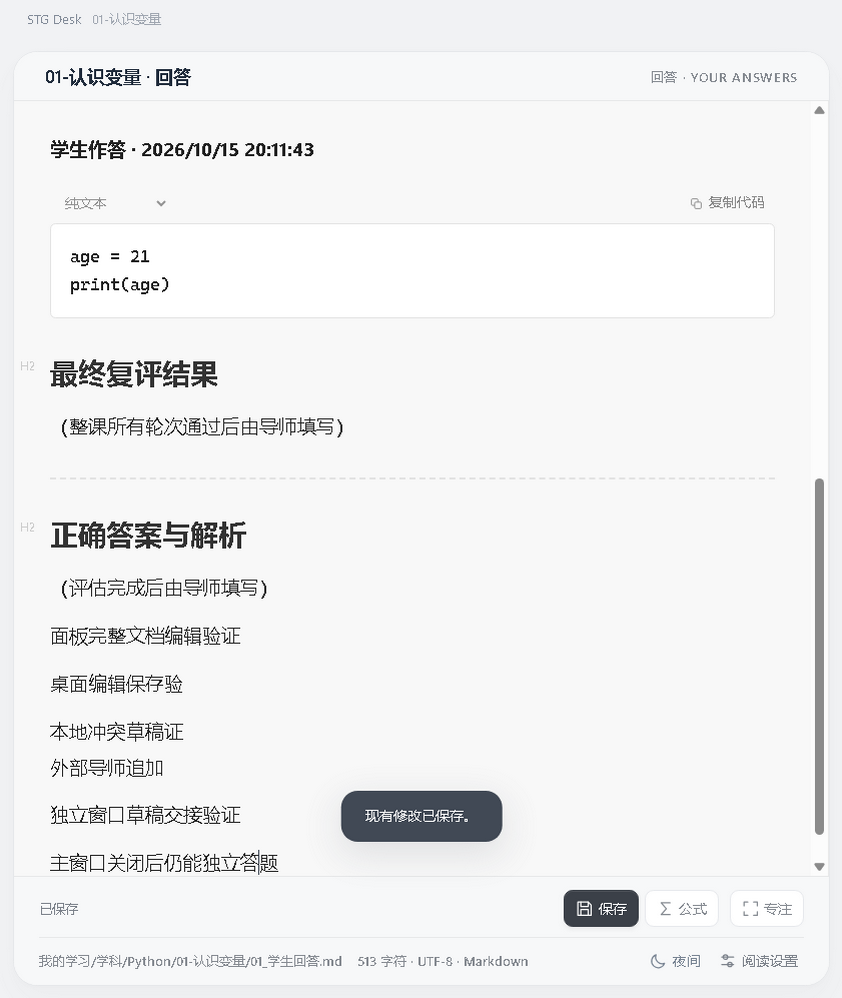
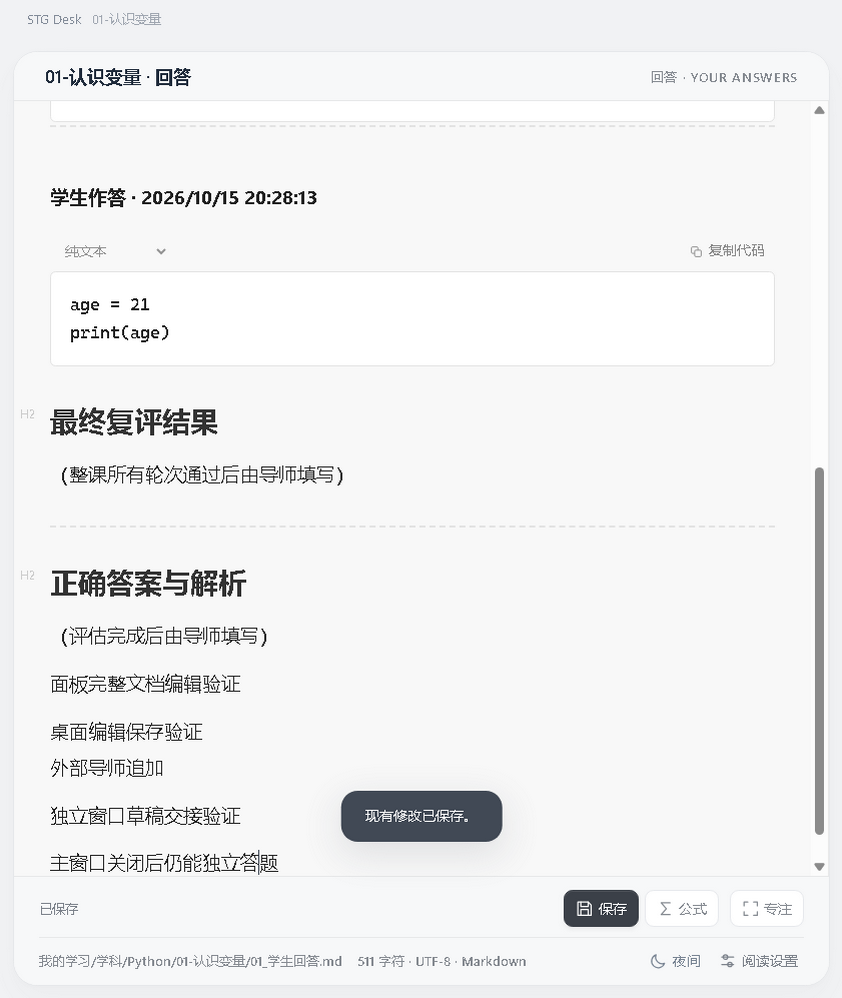
fix: keep answer inputs synchronized with saved documents in v0.3.11

diff --git a/src/workbench.js b/src/workbench.js
@@ -10,7 +10,7 @@ import './workbench.css';
 
 export function mountWorkbench({api,renderer,renderMD,resolveLink,escape,icon,highlight,registry,documentOnly=false}) {
   const $=s=>document.querySelector(s);
-  const state={workspace:null,doc:null,answer:null,answerCache:null,answerTab:'current',answerEditing:false,answerSource:'',answerBaseContent:'',answerBaseVersion:null,answerRecords:null,documentWindow:null,dirty:false,answers:{},orphans:[],loading:false,busy:false,documents:[],learning:null,preferences:{fontSize:16,lineHeight:1.9,readingWidth:820,backupRetention:20}};
+  const state={workspace:null,doc:null,answer:null,answerCache:null,answerTab:'current',answerEditing:false,answerSource:'',answerBaseContent:'',answerBaseVersion:null,answerRecords:null,parsedAnswerSource:null,documentWindow:null,dirty:false,answers:{},orphans:[],loading:false,busy:false,documents:[],learning:null,preferences:{fontSize:16,lineHeight:1.9,readingWidth:820,backupRetention:20}};
   let visual,sourceContent=null,draftTimer,draftWrites=Promise.resolve(),loadEpoch=0,page='document',progress={},detachedWindows=[],windowEvents=[],handlingWindowEvents=false,returningPaths=new Set();
   $('#workspace-meta').insertAdjacentHTML('afterend','<button id="continue-learning" class="continue-learning hidden">继续学习 <span>→</span></button><small id="current-learning"></small>');
   $('.header-actions').insertAdjacentHTML('afterbegin','<button id="preferences" class="header-button">阅读设置</button>');
@@ -39,7 +39,8 @@ export function mountWorkbench({api,renderer,renderMD,resolveLink,escape,icon,hi
   async function guarded(task){if(state.busy)return;state.busy=true;document.documentElement.dataset.busy='true';try{await task();}catch(e){message(cleanError(e),true);}finally{state.busy=false;document.documentElement.dataset.busy='false';drainWindowEvents();}}
   function cleanError(e){return String(e.message||e).replace(/^Error invoking remote method '[^']+': (?:Error: )?/,'');}
   function questionKey(q){return JSON.stringify([q.round,q.number,q.title,q.prompt]);}
-  function hasAnswers(){return Object.values(state.answers).some(v=>v.length);}
+  function answerValue(q){return state.answers[questionKey(q)]??q.answer?.value??'';}
+  function hasAnswers(){const current=state.answer?.questions.current||[];return Object.entries(state.answers).some(([key,value])=>value!==(current.find(q=>questionKey(q)===key)?.answer?.value??''));}
   function text(){return sourceContent??state.doc?.content??'';}
   function sourceLineOffset(line){let offset=0;for(let n=1;n<line;n++){const next=text().indexOf('\n',offset);if(next<0)return text().length;offset=next+1;}return offset;}
   function answerSourceDirty(){return !!state.answer&&state.answerSource!==state.answer.content;}
@@ -51,8 +52,8 @@ export function mountWorkbench({api,renderer,renderMD,resolveLink,escape,icon,hi
   }
   async function persistInput(){
     if(!api||!state.doc)return;
-    const doc=state.doc,answer=state.answer,content=text(),answers={...state.answers};
-    const has=Object.values(answers).some(v=>v.length);
+    const doc=state.doc,answer=state.answer,content=text(),answers=Object.fromEntries(Object.entries(state.answers).filter(([key,value])=>value!==((answer?.questions.current||[]).find(q=>questionKey(q)===key)?.answer?.value??'')));
+    const has=Object.keys(answers).length>0;
     const docRecord={content,baseContent:doc.content,baseVersion:doc.version,mode:'edit',answers:doc.path===answer?.path?answers:{}};
     if(!isDetached(doc.path)&&!returningPaths.has(doc.path)){if(content!==doc.content||(has&&doc.path===answer?.path))await api.draftPut(doc.path,docRecord);else await api.draftRemove(doc.path);}
     if(answer&&answer.path!==doc.path&&!isDetached(answer.path)&&!returningPaths.has(answer.path)){
@@ -139,7 +140,7 @@ export function mountWorkbench({api,renderer,renderMD,resolveLink,escape,icon,hi
     state.answerSource=editedAnswer?state.answerCache.content:answer?.content??'';
     state.answerBaseContent=editedAnswer?state.answerCache.baseContent:answer?.content??'';
     state.answerBaseVersion=editedAnswer?state.answerCache.baseVersion:answer?.version??null;
-    state.answerEditing=false;state.answerRecords=answer?await api.answerRecords(answer.content):null;
+    state.answerEditing=false;state.answerRecords=answer?await api.answerRecords(state.answerSource):null;state.parsedAnswerSource=state.answerSource;if(answer)state.answer.questions=state.answerRecords.questions;
     if(epoch!==loadEpoch)return;
     sourceContent=content;visual?.destroy();visual=null;$('#editor').innerHTML='';
     $('#welcome').classList.add('hidden');$('#document').classList.remove('hidden');
@@ -203,17 +204,17 @@ export function mountWorkbench({api,renderer,renderMD,resolveLink,escape,icon,hi
     if(!current.length||current.length>3){$('#answer-content').innerHTML='<div class="answer-empty"><p>这份文档暂不支持按题作答，可以在这里编辑完整回答文档。</p><button id="answer-edit-fallback">编辑完整文档</button></div>';return;}
     const known=new Set(current.map(questionKey));
     const orphan=Object.entries(state.answers).filter(([k,v])=>v&& !known.has(k));
-    $('#answer-content').innerHTML=current.map((q,i)=>`<section class="question-card"><div class="question-number">问题 ${escape(q.number)} <span>${i+1} / ${current.length}</span></div><h3>${escape(q.title.replace(/.*(?:问题|题目|练习题)\s*\d+\s*[:：·]?/,''))||'当前问题'}</h3><details class="answer-prompt"><summary>题干与示例 <span class="answer-prompt-hint"></span></summary><div class="question-prompt markdown-body">${renderMD(q.prompt,answer.path)}</div></details><label for="answer-${i}">你的回答</label><textarea id="answer-${i}" data-answer-index="${i}" placeholder="写下你的理解，或粘贴代码…" spellcheck="false">${escape(state.answers[questionKey(q)]||'')}</textarea></section>`).join('')+orphan.map(([key,value])=>`<section class="orphan-draft"><strong>题目变化前的输入</strong><p>已保留，请核对后复制到当前题目。</p><textarea readonly>${escape(value)}</textarea><button data-discard-answer="${escape(key)}">移除此输入</button></section>`).join('');
+    $('#answer-content').innerHTML=current.map((q,i)=>`<section class="question-card"><div class="question-number">问题 ${escape(q.number)} <span>${i+1} / ${current.length}</span></div><h3>${escape(q.title.replace(/.*(?:问题|题目|练习题)\s*\d+\s*[:：·]?/,''))||'当前问题'}</h3><details class="answer-prompt"><summary>题干与示例 <span class="answer-prompt-hint"></span></summary><div class="question-prompt markdown-body">${renderMD(q.prompt,answer.path)}</div></details><label for="answer-${i}">你的回答</label><textarea id="answer-${i}" data-answer-index="${i}" placeholder="写下你的理解，或粘贴代码…" spellcheck="false">${escape(answerValue(q))}</textarea></section>`).join('')+orphan.map(([key,value])=>`<section class="orphan-draft"><strong>题目变化前的输入</strong><p>已保留，请核对后复制到当前题目。</p><textarea readonly>${escape(value)}</textarea><button data-discard-answer="${escape(key)}">移除此输入</button></section>`).join('');
     $('#answer-content').querySelectorAll('.question-card').forEach((card,i)=>{
       const q=current[i],guideQuestion=/教学引导\.md$/i.test(state.doc.path)?state.doc.questions?.questions?.find(g=>g.number===q.number&&g.round===q.round):null;
       const prompt=guideQuestion&&(!q.prompt.trim()||/^[\s<>→-]+$/.test(q.prompt))?guideQuestion.prompt:q.prompt;
       if(prompt!==q.prompt)card.querySelector('.question-prompt').innerHTML=renderMD(prompt,state.doc.path);
       card.querySelector('.answer-prompt').open=prompt.length<=260&&prompt.split('\n').length<=8;
-      card.insertAdjacentHTML('beforeend',`<div class="answer-input-tools"><button data-answer-code="${i}">插入代码块</button><span data-answer-count="${i}">${(state.answers[questionKey(q)]||'').length} 字</span></div><details class="answer-question-record"><summary>查看本题已保存记录</summary><div class="markdown-body">${renderMD(answer.content.slice(q.start,q.end),answer.path)}</div></details>`);
+      card.insertAdjacentHTML('beforeend',`<div class="answer-input-tools"><button data-answer-code="${i}">插入代码块</button><span data-answer-count="${i}">${(answerValue(q)).length} 字</span></div>`);
     });
-    $('#answer-footer').innerHTML='<div class="answer-footer-status" id="answer-draft-status">点击保存，写入回答文档</div><button class="primary" id="submit">保存本轮作答 <span>→</span></button><p>原答追加到学生文档，历史和导师评估保留。</p>';
-    $('#submit').title='保存所有已填写的本轮答案。原答追加到学生文档，历史和导师评估保留。专注作答时可按 Ctrl S 保存。';
-    $('#answer-question-nav').innerHTML='<span class="answer-question-position" aria-live="polite"></span>'+current.map((q,i)=>`<button data-answer-question="${i}" aria-controls="answer-${i}" aria-pressed="false" aria-label="问题 ${escape(q.number)}，${state.answers[questionKey(q)]?.trim()?'已填写':'未填写'}">问题 ${escape(q.number)} <span class="answer-question-check" aria-hidden="true">${state.answers[questionKey(q)]?.trim()?'✓':''}</span></button>`).join('');
+    $('#answer-footer').innerHTML='<div class="answer-footer-status" id="answer-draft-status">点击保存，写入回答文档</div><button class="primary" id="submit">保存本轮作答 <span>→</span></button><p>回答与学生文档同步，保存后可继续修改。</p>';
+    $('#submit').title='保存所有已填写的本轮答案。回答与学生文档同步，保存后可继续修改。专注作答时可按 Ctrl S 保存。';
+    $('#answer-question-nav').innerHTML='<span class="answer-question-position" aria-live="polite"></span>'+current.map((q,i)=>`<button data-answer-question="${i}" aria-controls="answer-${i}" aria-pressed="false" aria-label="问题 ${escape(q.number)}，${answerValue(q).trim()?'已填写':'未填写'}">问题 ${escape(q.number)} <span class="answer-question-check" aria-hidden="true">${answerValue(q).trim()?'✓':''}</span></button>`).join('');
     showAnswerQuestion(Math.max(0,current.findIndex(q=>questionKey(q)===activeQuestionKey)));
   }
   function showAnswerQuestion(index){
@@ -254,11 +255,15 @@ export function mountWorkbench({api,renderer,renderMD,resolveLink,escape,icon,hi
     const pending=savedSource!==undefined&&state.answerSource!==savedSource?state.answerSource:result.content;
     state.answer=result;state.answerCache=null;state.answerSource=pending;state.answerBaseContent=result.content;state.answerBaseVersion=result.version;
     if(state.doc?.path===result.path){const displayed=text();state.doc=result;replaceSource(savedSource!==undefined&&displayed!==savedSource?displayed:result.content);}
-    state.answerRecords=await api.answerRecords(result.content);
-    dirtyState();await flushDraft();renderAnswers();renderAnswerWorkspace();
+    state.answerRecords=await api.answerRecords(result.content);state.parsedAnswerSource=result.content;
+    dirtyState();await flushDraft();
+    const focused=document.activeElement,inputFocus=focused?.matches('#answer-source,[data-answer-index]')?{id:focused.id,start:focused.selectionStart,end:focused.selectionEnd,top:focused.scrollTop}:null;
+    const scrollTop=$('#answer-content').scrollTop;
+    renderAnswerWorkspace();
+    if(inputFocus){const input=document.getElementById(inputFocus.id);if(input){input.focus({preventScroll:true});input.setSelectionRange(inputFocus.start,inputFocus.end);input.scrollTop=inputFocus.top;$('#answer-content').scrollTop=scrollTop;}}
   }
   function answerEntries(){
-    return (state.answer?.questions.current||[]).filter(q=>state.answers[questionKey(q)]?.trim()).map(q=>({...q,value:state.answers[questionKey(q)]}));
+    return (state.answer?.questions.current||[]).filter(q=>Object.hasOwn(state.answers,questionKey(q))&&state.answers[questionKey(q)]!==(q.answer?.value??'')).map(q=>({...q,value:state.answers[questionKey(q)]}));
   }
   async function previewCurrentAnswers(){
     const path=state.answer.path,source=state.answerSource,entries=answerEntries();
@@ -270,6 +275,19 @@ export function mountWorkbench({api,renderer,renderMD,resolveLink,escape,icon,hi
         // are included by the same save operation, without a second save step.
       }
     }catch(e){message(cleanError(e),true);}
+  }
+  async function materializeAnswers(){
+    if(!state.answer)return;
+    const entries=answerEntries(),source=state.answerSource;
+    if(entries.length){
+      const content=await api.composeAnswers(source,entries);
+      state.answerSource=content;
+      for(const q of entries)if(state.answers[questionKey(q)]===q.value)delete state.answers[questionKey(q)];
+      if(state.doc.path===state.answer.path)replaceSource(content);
+    }
+    const records=await api.answerRecords(state.answerSource);
+    state.answer.questions=records.questions;state.answerRecords=records;state.parsedAnswerSource=state.answerSource;
+    dirtyState();await flushDraft();
   }
   async function saveAnswerDocument(){return saveAll();}
   async function answerHistory(){
@@ -320,9 +338,9 @@ export function mountWorkbench({api,renderer,renderMD,resolveLink,escape,icon,hi
     if(b.dataset.file){guarded(()=>selectFile(b.dataset.file,{line:b.dataset.resultLine?Number(b.dataset.resultLine):null}));return;}
     if(b.dataset.discardAnswer){delete state.answers[b.dataset.discardAnswer];renderAnswers();scheduleDraft();return;}
     if(b.dataset.answerQuestion!==undefined){showAnswerQuestion(Number(b.dataset.answerQuestion));return;}
-    if(b.dataset.answerTab){state.answerTab=b.dataset.answerTab;renderAnswerWorkspace();return;}
+    if(b.dataset.answerTab){const show=()=>{state.answerTab=b.dataset.answerTab;renderAnswerWorkspace();};if(hasAnswers()||state.parsedAnswerSource!==state.answerSource)guarded(async()=>{await materializeAnswers();show();});else show();return;}
     if(b.dataset.answerCode!==undefined){const input=document.querySelector(`[data-answer-index="${b.dataset.answerCode}"]`);const from=input.selectionStart,to=input.selectionEnd;input.setRangeText('\n```\n'+input.value.slice(from,to)+'\n```\n',from,to,'end');input.dispatchEvent(new Event('input',{bubbles:true}));input.focus();return;}
-    if(b.id==='answer-edit-source'||b.id==='answer-edit-fallback'){state.answerTab='document';state.answerEditing=b.id==='answer-edit-fallback'||!state.answerEditing;renderAnswerWorkspace();if(state.answerEditing)$('#answer-source').focus();return;}
+    if(b.id==='answer-edit-source'||b.id==='answer-edit-fallback'){const edit=()=>{state.answerTab='document';state.answerEditing=b.id==='answer-edit-fallback'||!state.answerEditing;renderAnswerWorkspace();if(state.answerEditing)$('#answer-source').focus();};if(hasAnswers()||state.parsedAnswerSource!==state.answerSource)guarded(async()=>{await materializeAnswers();edit();});else edit();return;}
     if(b.id==='document-popout'){guarded(popout);return;}
     if(b.id==='answer-save-source'){guarded(saveAnswerDocument);return;}
     if(b.id==='answer-history'){guarded(answerHistory);return;}
@@ -342,7 +360,7 @@ export function mountWorkbench({api,renderer,renderMD,resolveLink,escape,icon,hi
     return saveAll();
   }));
   api?.onPrepareClose(async()=>{try{await flushDraft();await api.closeReady(true);}catch(e){await api.closeReady(false);message(cleanError(e),true);}});
-  api?.onChange(async()=>{try{if(state.workspace){state.workspace=await api.tree();await updateLearning();await updateDocuments();}if(state.doc){const disk=await api.read(state.doc.path);const answer=state.answer&&state.answer.path!==state.doc.path?await api.read(state.answer.path):null;if(disk.version!==state.doc.version||(answer&&answer.version!==state.answer.version))$('#change-banner').classList.remove('hidden');}}catch{message('文档可能已移动或删除，请刷新当前文档。',true);}});
+  api?.onChange(async()=>{try{if(state.workspace){state.workspace=await api.tree();await updateLearning();await updateDocuments();}if(state.doc){const disk=await api.read(state.doc.path);const answer=state.answer&&state.answer.path!==state.doc.path?await api.read(state.answer.path):null;if(disk.version!==state.doc.version)$('#change-banner').classList.remove('hidden');const updated=answer||(state.answer?.path===disk.path?disk:null);if(updated&&updated.version!==state.answer.version){if(!hasAnswers()&&!answerSourceDirty()&&!(state.doc.path===updated.path&&state.dirty))await acceptAnswer(updated);else $('#change-banner').classList.remove('hidden');}}}catch{message('文档可能已移动或删除，请刷新当前文档。',true);}});
   api?.onWarning(text=>message('文件监测提示：'+text,true));
   if(!documentOnly)api?.onDocumentWindowsChange(event=>{if(event.root!==state.workspace?.root)return;if(event.type==='closed')returningPaths.add(event.path);detachedWindows=event.windows||[];drawTree();document.body.classList.toggle('answer-detached',!!state.answer&&isDetached(state.answer.path));windowEvents.push(event);drainWindowEvents();});
   if(api){api.preferences().then(p=>{state.preferences=p;applyPreferences();});if(documentOnly){api.documentWindowInfo().then(async info=>{state.documentWindow=info;document.body.classList.add(info.kind==='answer'?'answer-document-window':'guide-document-window');await guarded(()=>importFolder(info.root,info.path));});}else api.lastRoot().then(async root=>{if(root){$('#recent').innerHTML=`<button id="recent-open" data-root="${escape(root)}">最近打开：${escape(root)} <span>→</span></button>`;await guarded(()=>importFolder(root));}});}else $('#recent').textContent='网页界面预览；本地文件功能请使用桌面应用。';

diff --git a/README.en.md b/README.en.md
@@ -20,9 +20,9 @@ STG Desk is a Windows desktop workspace for [StepsToGreat](https://github.com/wi
 
 Reading, editing, and answering work independently; connect DSH when needed. Learning files stay in their original directory so a tutor or learning agent can read and update them.
 
-> This README covers [v0.3.10](https://github.com/wildcat430524/STG-Desk/releases/tag/v0.3.10). See the [release notes](https://github.com/wildcat430524/STG-Desk/releases) for version changes. The app interface is currently in Chinese.
+> This README covers [v0.3.11](https://github.com/wildcat430524/STG-Desk/releases/tag/v0.3.11). See the [release notes](https://github.com/wildcat430524/STG-Desk/releases) for version changes. The app interface is currently in Chinese.
 
-v0.3.10 unifies saving: Save this round, Save, and Ctrl+S write current edits directly, without a prerequisite save or a draft-merge workflow. Old editor snapshots that differ only by Markdown escaping no longer restore an outdated lesson over the latest file.
+v0.3.11 keeps saved answers in the answer inputs and restores them from the document on reopening. Editing and saving updates the current answer; clearing and saving clears it. The separate saved-record disclosure is removed.
 
 ## Preview
 
@@ -122,7 +122,7 @@ Headings, lists, tables, and formulas are organised by content level: `H1`/`H2`/
 To open it:
 
 - **Running from source**: import the `demo/EditorShowcase` directory.
-- **Using the portable build**: download the [complex-content showcase ZIP](https://github.com/wildcat430524/STG-Desk/releases/download/v0.3.10/STG-Desk-0.3.10-EditorShowcase.zip), extract it, and import the `EditorShowcase` root folder. You can also read the [demo source](demo/EditorShowcase) and [showcase lesson](demo/EditorShowcase/我的学习/学科/Markdown/01-复杂内容演示/01_教学引导.md) directly.
+- **Using the portable build**: download the [complex-content showcase ZIP](https://github.com/wildcat430524/STG-Desk/releases/download/v0.3.11/STG-Desk-0.3.11-EditorShowcase.zip), extract it, and import the `EditorShowcase` root folder. You can also read the [demo source](demo/EditorShowcase) and [showcase lesson](demo/EditorShowcase/我的学习/学科/Markdown/01-复杂内容演示/01_教学引导.md) directly.
 - After importing, 「选择课程」 (Choose lesson) lists this showcase lesson at `我的学习/学科/Markdown/01-复杂内容演示/`. The welcome screen's [bundled demo lessons](demo/StepsToGreat) open a separate workspace.
 
 > The Java example targets Java 17+ and was only reviewed, not compiled: this machine runs Java 11. The Python example was executed. The showcase demonstrates layout and editing behaviour; it is not a learning assessment.
@@ -133,7 +133,7 @@ The answer workspace beside the lesson has three entries:
 
 | Entry | Purpose |
 | --- | --- |
-| 「本轮作答」 (Current round) | Answer the latest published round one question at a time; saving appends all filled-in answers |
+| 「本轮作答」 (Current round) | Answer the latest published round one question at a time; saving updates the document and keeps the saved answers visible |
 | 「作答记录」 (Answer records) | Review previous answers, tutor evaluations, and final reassessments |
 | 「完整文档」 (Full document) | Read and edit the entire answer file, including content outside the question interface |
 

diff --git a/docs/releases/v0.3.11.md b/docs/releases/v0.3.11.md
@@ -1,0 +1,16 @@
+# v0.3.11 · 回答区与文档同步
+
+- 保存后，「你的回答」继续显示刚保存的内容，切题、重启后也能从回答文档读回。
+- 再次编辑保存会更新当前答案；清空并保存也会同步到文档，不会恢复旧答案或重复追加当前作答。
+- 移除「查看本题已保存记录」。全文编辑和外部文档更新可同步到答题区；尚未保存的输入保留。
+- Ctrl+S 保存时保留输入焦点和光标位置。已有历史原答、导师反馈与保存前备份保留。
+
+177 项单元测试、一键保存专项验收、作答布局验收和完整桌面冒烟检查通过。
+
+下载 `STG-Desk-0.3.11-Windows.exe`；演示包为 `STG-Desk-0.3.11-EditorShowcase.zip`，校验值见 `SHA256SUMS.txt`。
+
+## English
+
+Saved answers remain editable in the answer inputs and reload from the document. Saving edits updates the current answer; clearing and saving clears it without duplicating answers or reviving an older record. Full-document and external edits synchronize with the inputs. The saved-record disclosure is removed, and Ctrl+S preserves input focus and cursor position. Existing history, tutor feedback, and backups remain available.
+
+All 177 unit tests, save acceptance, answer-layout acceptance, and full desktop smoke checks passed.
